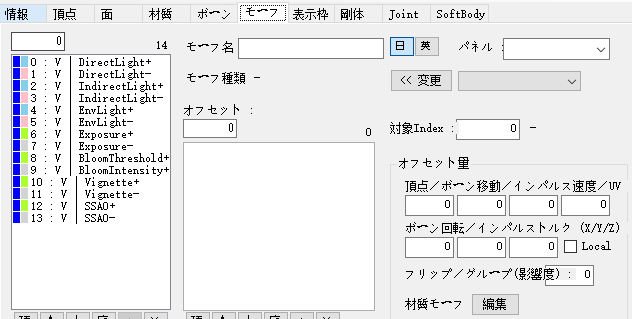
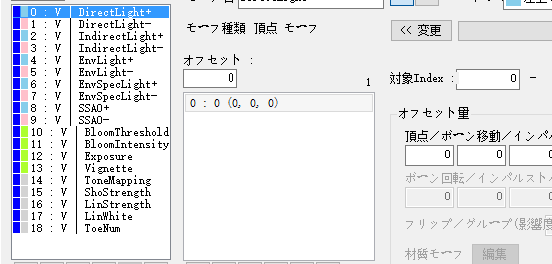
添加控制线性和Fimic曝光的转换

diff --git a/README.md b/README.md
@@ -26,15 +26,21 @@ Ray-MMD
 [![link text](Screenshot/2.5_small.png)](Screenshot/2.5.png)
 
 ##### 3.0 全局设置 <font color=gray>(ray_controller.pmx)</font>:
-* DirectLight+/-调整光照中整体光强
-* IndirectLight+/-调整间接光照中整体光强 (暂时只能控制SSAO产生的GI)
-* EnvLight+-调整来至天空盒的环境光强
-* Exposure+- 调整整体的曝光强度
-* BloomThreshold 调整提取最亮部分的阈值
-* BloomIntensity 调整泛光的整体强度
-* Vignette+- 调整窗口四周的暗角 (初始不产生暗角)
-* SSAO+- 调整环境光遮蔽强度  
-[![link text](Screenshot/3.1_small.png)](Screenshot/3.1.png)
+* DirectLight+/-直接光照中整体光强
+* IndirectLight+/-间接光照中整体光强 (暂时只能控制SSAO产生的GI)
+* EnvLight+-环境光的漫反射光强
+* EnvSpecLight+-环境光的镜面光强
+* SSAO+- 环境光遮蔽强度  
+* BloomThreshold 提取最亮部分的阈值
+* BloomIntensity 泛光的整体强度
+* Exposure+- 曝光强度
+* Vignette+- 窗口四周的暗角
+* ToneMapping 色调映射的鲜艳度 (为0时采用FimicToneMapping, 为1时线性曝光)
+* ShoStrength 亮度 (当ToneMapping越大时改值影响越大)
+* LinStrength 灰度 (当ToneMapping越大时改值影响越大)
+* LinWhite    消光 (当ToneMapping越大时改值影响越大)
+* ToeNum      饱和度 (当ToneMapping越大时改值影响越大)
+[![link text](Screenshot/3.1.png)](Screenshot/3.1.png)
 
 ##### 4.0 制作基于物理的环境光贴图(IBL) :
 　　预处理的环境光贴图需要对天空盒纹理处理所以需要借助以下工具
